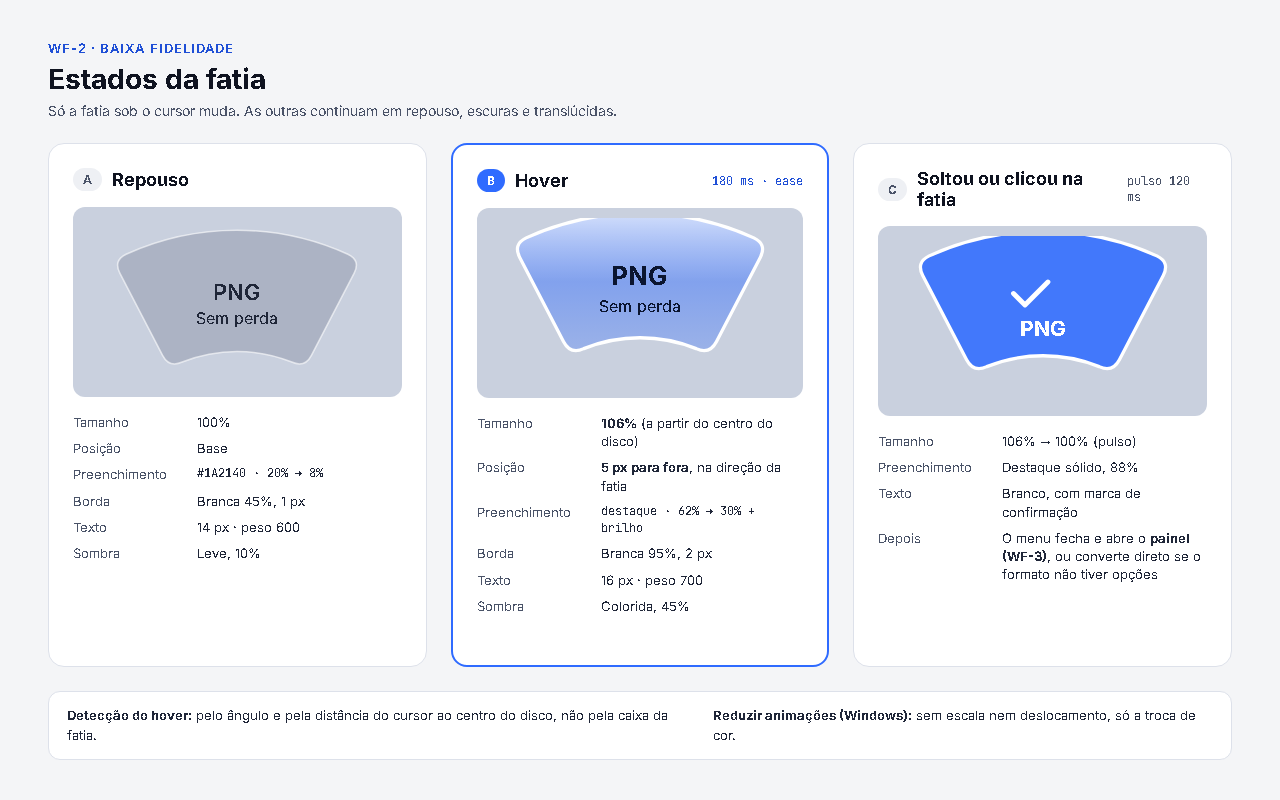
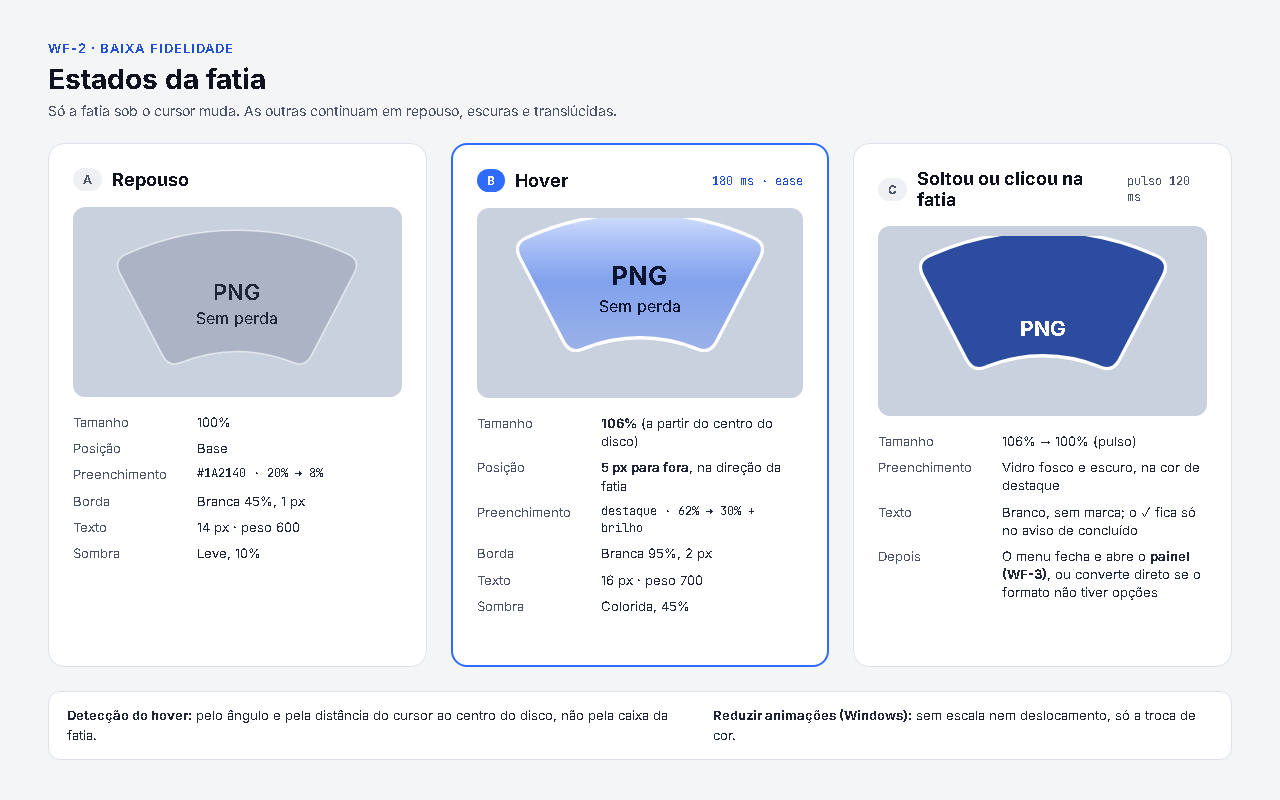
docs: uma página do Dossiê, ideias descartadas e menu atual no README
- docs/design/README.md e docs/dossie/README.md falavam do mesmo
  Dossiê: fica só docs/dossie, com o link do Claude Design.
- docs/ideias-descartadas reúne o que saiu do projeto e por quê, com
  link para o ADR; os ADRs ficam onde estão.
- docs/imagens/menu.png, que não era usada e mostrava o texto reto,
  vira uma captura do menu com o texto curvo, no README.
- Pranchas: texto das fatias decidido (B) e WF-2 com o pulso sem ✓.

Changed region(s): [[0.7188, 0.2812, 0.9062, 0.4688], [0.7812, 0.5625, 0.9375, 0.75], [0.6875, 0.6562, 0.7188, 0.7188]]

diff --git a/docs/ideias-descartadas/README.md b/docs/ideias-descartadas/README.md
@@ -1,0 +1,47 @@
+# Ideias descartadas
+
+O que ficou pelo caminho, e por quê. Serve para não voltar a discutir o que já foi decidido e para entender por que o Pizza é como é. O registro completo de cada decisão continua no ADR indicado; os ADRs não saem de [`docs/adr`](../adr/), para que os links antigos sigam funcionando.
+
+Para reabrir uma ideia, crie um ADR novo que substitui o anterior (veja [`docs/adr/README.md`](../adr/README.md)).
+
+## Produto
+
+| Ideia | Por que saiu | Onde |
+| --- | --- | --- |
+| Repositório privado até o v1.0 | O Pizza passou a ser gratuito e de código aberto | [ADR-013](../adr/013-repositorio-privado.md) → [ADR-014](../adr/014-gratuito-gpl.md) |
+| Versão paga, com chave e plano | Gratuito sob GPL-3.0; a aba "Licença" saiu da Configuração | [ADR-014](../adr/014-gratuito-gpl.md) |
+| 15 políticas de TI no v1 | Ficam 7, as essenciais | [ADR-019](../adr/019-simplificacoes-do-v1.md) |
+| Opções "Mostrar dica" e "Cor de destaque" | Extras de interface que ninguém pediu | [ADR-019](../adr/019-simplificacoes-do-v1.md) |
+| "Pausar por 1 hora" e "Sobre" no menu do ícone | Pausar o gesto reverteria uma simplificação; Sobre vai para a Configuração | [ADR-020](../adr/020-menu-do-icone.md) |
+
+## Gesto e menu
+
+| Ideia | Por que saiu | Onde |
+| --- | --- | --- |
+| Hook de teclado para o Esc | Nenhuma captura de teclado (SEC-01); o Esc chega pelo próprio arraste ou pela janela do menu | [ADR-016](../adr/016-esc-sem-hook-de-teclado.md) |
+| Soltar fora do disco cancela | Soltar em qualquer lugar mantém o menu para escolher com um clique, sem precisar mirar | [ADR-025](../adr/025-escolha-por-clique-apos-o-gesto.md) |
+| Fechar a escolha em prazo fixo, ou só depois de 30 s | Fecharia enquanto a pessoa navega no touchpad, ou ocuparia demais uma tela pequena: o prazo é de 10 s sem interação | [ADR-025](../adr/025-escolha-por-clique-apos-o-gesto.md) |
+| Texto das fatias na horizontal com arco leve (versão A) | A descrição longa não cabia nas fatias laterais sem quebrar a linha; ficou a curva completa (B) | [Dossiê](../dossie/README.md#referência--texto-das-fatias) |
+| Marca ✓ na fatia escolhida | A fatia só fica em destaque, com vidro fosco e escuro; o ✓ aparece apenas no aviso de concluído | Pedido do mantenedor em 10/11/2026 |
+
+## Visual
+
+| Ideia | Por que saiu | Onde |
+| --- | --- | --- |
+| Direct2D (Vortice) | Dependências novas, uma em beta | [ADR-023](../adr/023-vidro-gdiplus-desfoque-proprio.md) |
+| Acrylic do Windows (DWM) | Só funciona em janela ativa | [ADR-023](../adr/023-vidro-gdiplus-desfoque-proprio.md) |
+| Composição do Windows (`HostBackdropBrush`) | Desenhou preto na janela do disco | [ADR-023](../adr/023-vidro-gdiplus-desfoque-proprio.md) |
+| Vidro sem desfoque | O fundo nítido compete com as fatias | [ADR-023](../adr/023-vidro-gdiplus-desfoque-proprio.md) |
+| Avisos nativos do Windows (toasts) | Ficam no histórico e são espelhados no celular; viraram janelas próprias | [ADR-018](../adr/018-notificacao-e-painel-proprios.md) |
+
+## Arquitetura e segurança
+
+| Ideia | Por que saiu | Onde |
+| --- | --- | --- |
+| Converter documentos pelo Word (COM) | Arquivo da internet abriria fora do sandbox; no v1, só o LibreOffice isolado | [ADR-019](../adr/019-simplificacoes-do-v1.md) |
+| Worker aquecido e reaproveitado | Um arquivo malicioso alcançaria os próximos; agora é um Worker por arquivo | [ADR-019](../adr/019-simplificacoes-do-v1.md) |
+| Baixar o LibreOffice pelo Pizza | Nenhum download além da atualização | [ADR-019](../adr/019-simplificacoes-do-v1.md) |
+| Pipe com nome, ACL e verificação de PID | Pipes sem nome, entregues só ao Worker, são mais simples e fecham o acesso entre usuários | [ADR-021](../adr/021-pipe-sem-nome.md) |
+| Histórico do painel gravado em disco | Fica só em memória, durante a sessão | [ADR-018](../adr/018-notificacao-e-painel-proprios.md) |
+| PDFsharp para Imagem → PDF | Passou a ser AGPL na versão 6.5.0; o Pizza usa um gerador próprio | [ADR-022](../adr/022-imagem-pdf-gerador-proprio.md) |
+| SharpFuzz para os testes com arquivos corrompidos | Só observa código C#, e quem lê os arquivos é o libvips nativo; há um teste próprio | [SPECS §2.1](../SPECS.md) (TST-03) |

diff --git a/README.md b/README.md
@@ -14,7 +14,7 @@
 
 Conversor de imagens para Windows com menu circular, processamento local e arquivo original preservado.
 
-[Como usar](docs/USO.md) · [Dossiê e design](docs/design/README.md) · [Documentação](docs/README.md) · [Próximas etapas](docs/ROADMAP.md)
+[Como usar](docs/USO.md) · [Dossiê e design](docs/dossie/README.md) · [Documentação](docs/README.md) · [Próximas etapas](docs/ROADMAP.md)
 
 </div>
 
@@ -25,6 +25,8 @@ O Pizza abre um menu de formatos quando você começa a arrastar um arquivo segu
 O projeto está em **prévia de desenvolvimento**. Imagens e Imagem → PDF estão implementados. Operações em PDF, documentos e áudio fazem parte do roteiro. Instaladores assinados e atualização automática ainda não estão disponíveis.
 
 ## Como funciona
+
+<p align="center"><img src="docs/imagens/menu.png" alt="Menu do Pizza aberto sobre um arquivo JPG: abas Imagem, PDF, Documento e Áudio, e seis fatias de formato com o nome e a descrição acompanhando a curva; a fatia AVIF está em destaque" width="440"></p>
 
 1. Abra o Pizza; ele fica na bandeja do Windows.
 2. Segure **Ctrl** e comece a arrastar uma imagem no Explorer ou na área de trabalho.
@@ -102,9 +104,7 @@ Claude e Codex são as ferramentas de IA utilizadas na construção do projeto. 
 
 ## Dossiê e demonstração
 
-O [**Pizza — Dossiê do Projeto**, criado no Claude Design](https://claude.ai/artifact/LMrbTPnaY6EbVK1UPjcVDs#page-dcb81aee8d83), reúne a referência visual do projeto. A [documentação de design](docs/design/README.md) relaciona o artefato ao dossiê em Markdown e às decisões técnicas.
-
-As [pranchas do dossiê](docs/dossie/README.md) também estão disponíveis diretamente neste repositório.
+O [**Pizza — Dossiê do Projeto**, criado no Claude Design](https://claude.ai/artifact/LMrbTPnaY6EbVK1UPjcVDs#page-dcb81aee8d83), reúne a referência visual do projeto. As [pranchas do dossiê](docs/dossie/README.md) também estão neste repositório, sem precisar de login no Claude. O que foi descartado no caminho, e por quê, está em [ideias descartadas](docs/ideias-descartadas/README.md).
 
 Uma demonstração prática em vídeo está planejada e será adicionada quando estiver pronta.
 

diff --git a/docs/PIZZA-PROJETO.md b/docs/PIZZA-PROJETO.md
@@ -1,6 +1,6 @@
 # Pizza — Especificação completa do projeto
 
-> **Atualização — 10/11/2026:** este dossiê preserva o planejamento e decisões históricas. A implementação está em prévia de imagens, e o repositório já é público. Consulte o [roteiro atual](ROADMAP.md) e as emendas da [SPECS](SPECS.md). O gesto permite soltar em qualquer posição e escolher por clique (ADR-025). O [artefato original do Claude Design](design/README.md) está referenciado na documentação.
+> **Atualização — 10/11/2026:** este dossiê preserva o planejamento e decisões históricas. A implementação está em prévia de imagens, e o repositório já é público. Consulte o [roteiro atual](ROADMAP.md) e as emendas da [SPECS](SPECS.md). O gesto permite soltar em qualquer posição e escolher por clique (ADR-025). O [artefato original do Claude Design](dossie/README.md) está referenciado na documentação.
 
 > Conversor de arquivos para Windows que funciona no gesto: **segure Ctrl, arraste o arquivo e solte no formato** num menu circular de vidro. Tudo offline, leve e rápido.
 

diff --git a/docs/dossie/README.md b/docs/dossie/README.md
@@ -1,5 +1,7 @@
 # Dossiê do projeto
 
+**[Abrir o artefato original no Claude Design](https://claude.ai/artifact/LMrbTPnaY6EbVK1UPjcVDs#page-dcb81aee8d83)** (exige login no Claude). As imagens abaixo são as mesmas pranchas, exportadas para quem não usa o Claude. O texto consolidado do planejamento está em [PIZZA-PROJETO.md](../PIZZA-PROJETO.md).
+
 Pranchas do planejamento do Pizza, feitas antes do código, em 08/11/2026 e 09/11/2026. Elas mostram:
 
 - público e posicionamento;
@@ -42,6 +44,12 @@ Pranchas do planejamento do Pizza, feitas antes do código, em 08/11/2026 e 09/1
 ### DES-1 · Sistema visual
 
 ![Sistema visual](des-1-sistema-visual.png)
+
+### Referência · texto das fatias
+
+Decidido em 10/11/2026: **B · Curva completa**. A versão A, sem girar, foi descartada porque a descrição longa não cabia nas fatias laterais sem quebrar a linha.
+
+![Texto das fatias](ref-texto-fatias.png)
 
 ## Arquitetura
 

diff --git a/docs/ROADMAP.md b/docs/ROADMAP.md
@@ -17,7 +17,7 @@ Esta entrega fecha uma prévia do gesto e da conversão de imagens. Não equival
 | Configurações completas e políticas de TI | Planejadas |
 | Instaladores assinados, atualização verificada, SBOM e proveniência de release | Pendentes antes da distribuição estável |
 | Auditoria completa e medições finais de desempenho | Pendentes para a v1.0 |
-| Artefato original do Claude Design | [Referência disponível](design/README.md) |
+| Artefato original do Claude Design | [Referência disponível](dossie/README.md) |
 | Vídeo de aplicação prática | Planejado pelo mantenedor |
 
 Fases e critérios completos estão nas [SPECS](SPECS.md). Artefatos experimentais do CI são builds de desenvolvimento.

diff --git a/docs/README.md b/docs/README.md
@@ -3,7 +3,8 @@
 | Comece por | Conteúdo |
 | --- | --- |
 | [Como usar](USO.md) | Executar a prévia, gesto, opções e solução de problemas |
-| [Dossiê e design](design/README.md) | Artefato do Claude Design, documento consolidado e wireframes |
+| [Dossiê e design](dossie/README.md) | Artefato do Claude Design, pranchas e wireframes |
+| [Ideias descartadas](ideias-descartadas/README.md) | O que ficou pelo caminho, e por quê |
 | [SPECS](SPECS.md) | Requisitos; emendas da §2.1 prevalecem |
 | [Roteiro](ROADMAP.md) | Estado atual e próximas etapas |
 | [ADRs](adr/README.md) | Decisões e razões para as mudanças |
